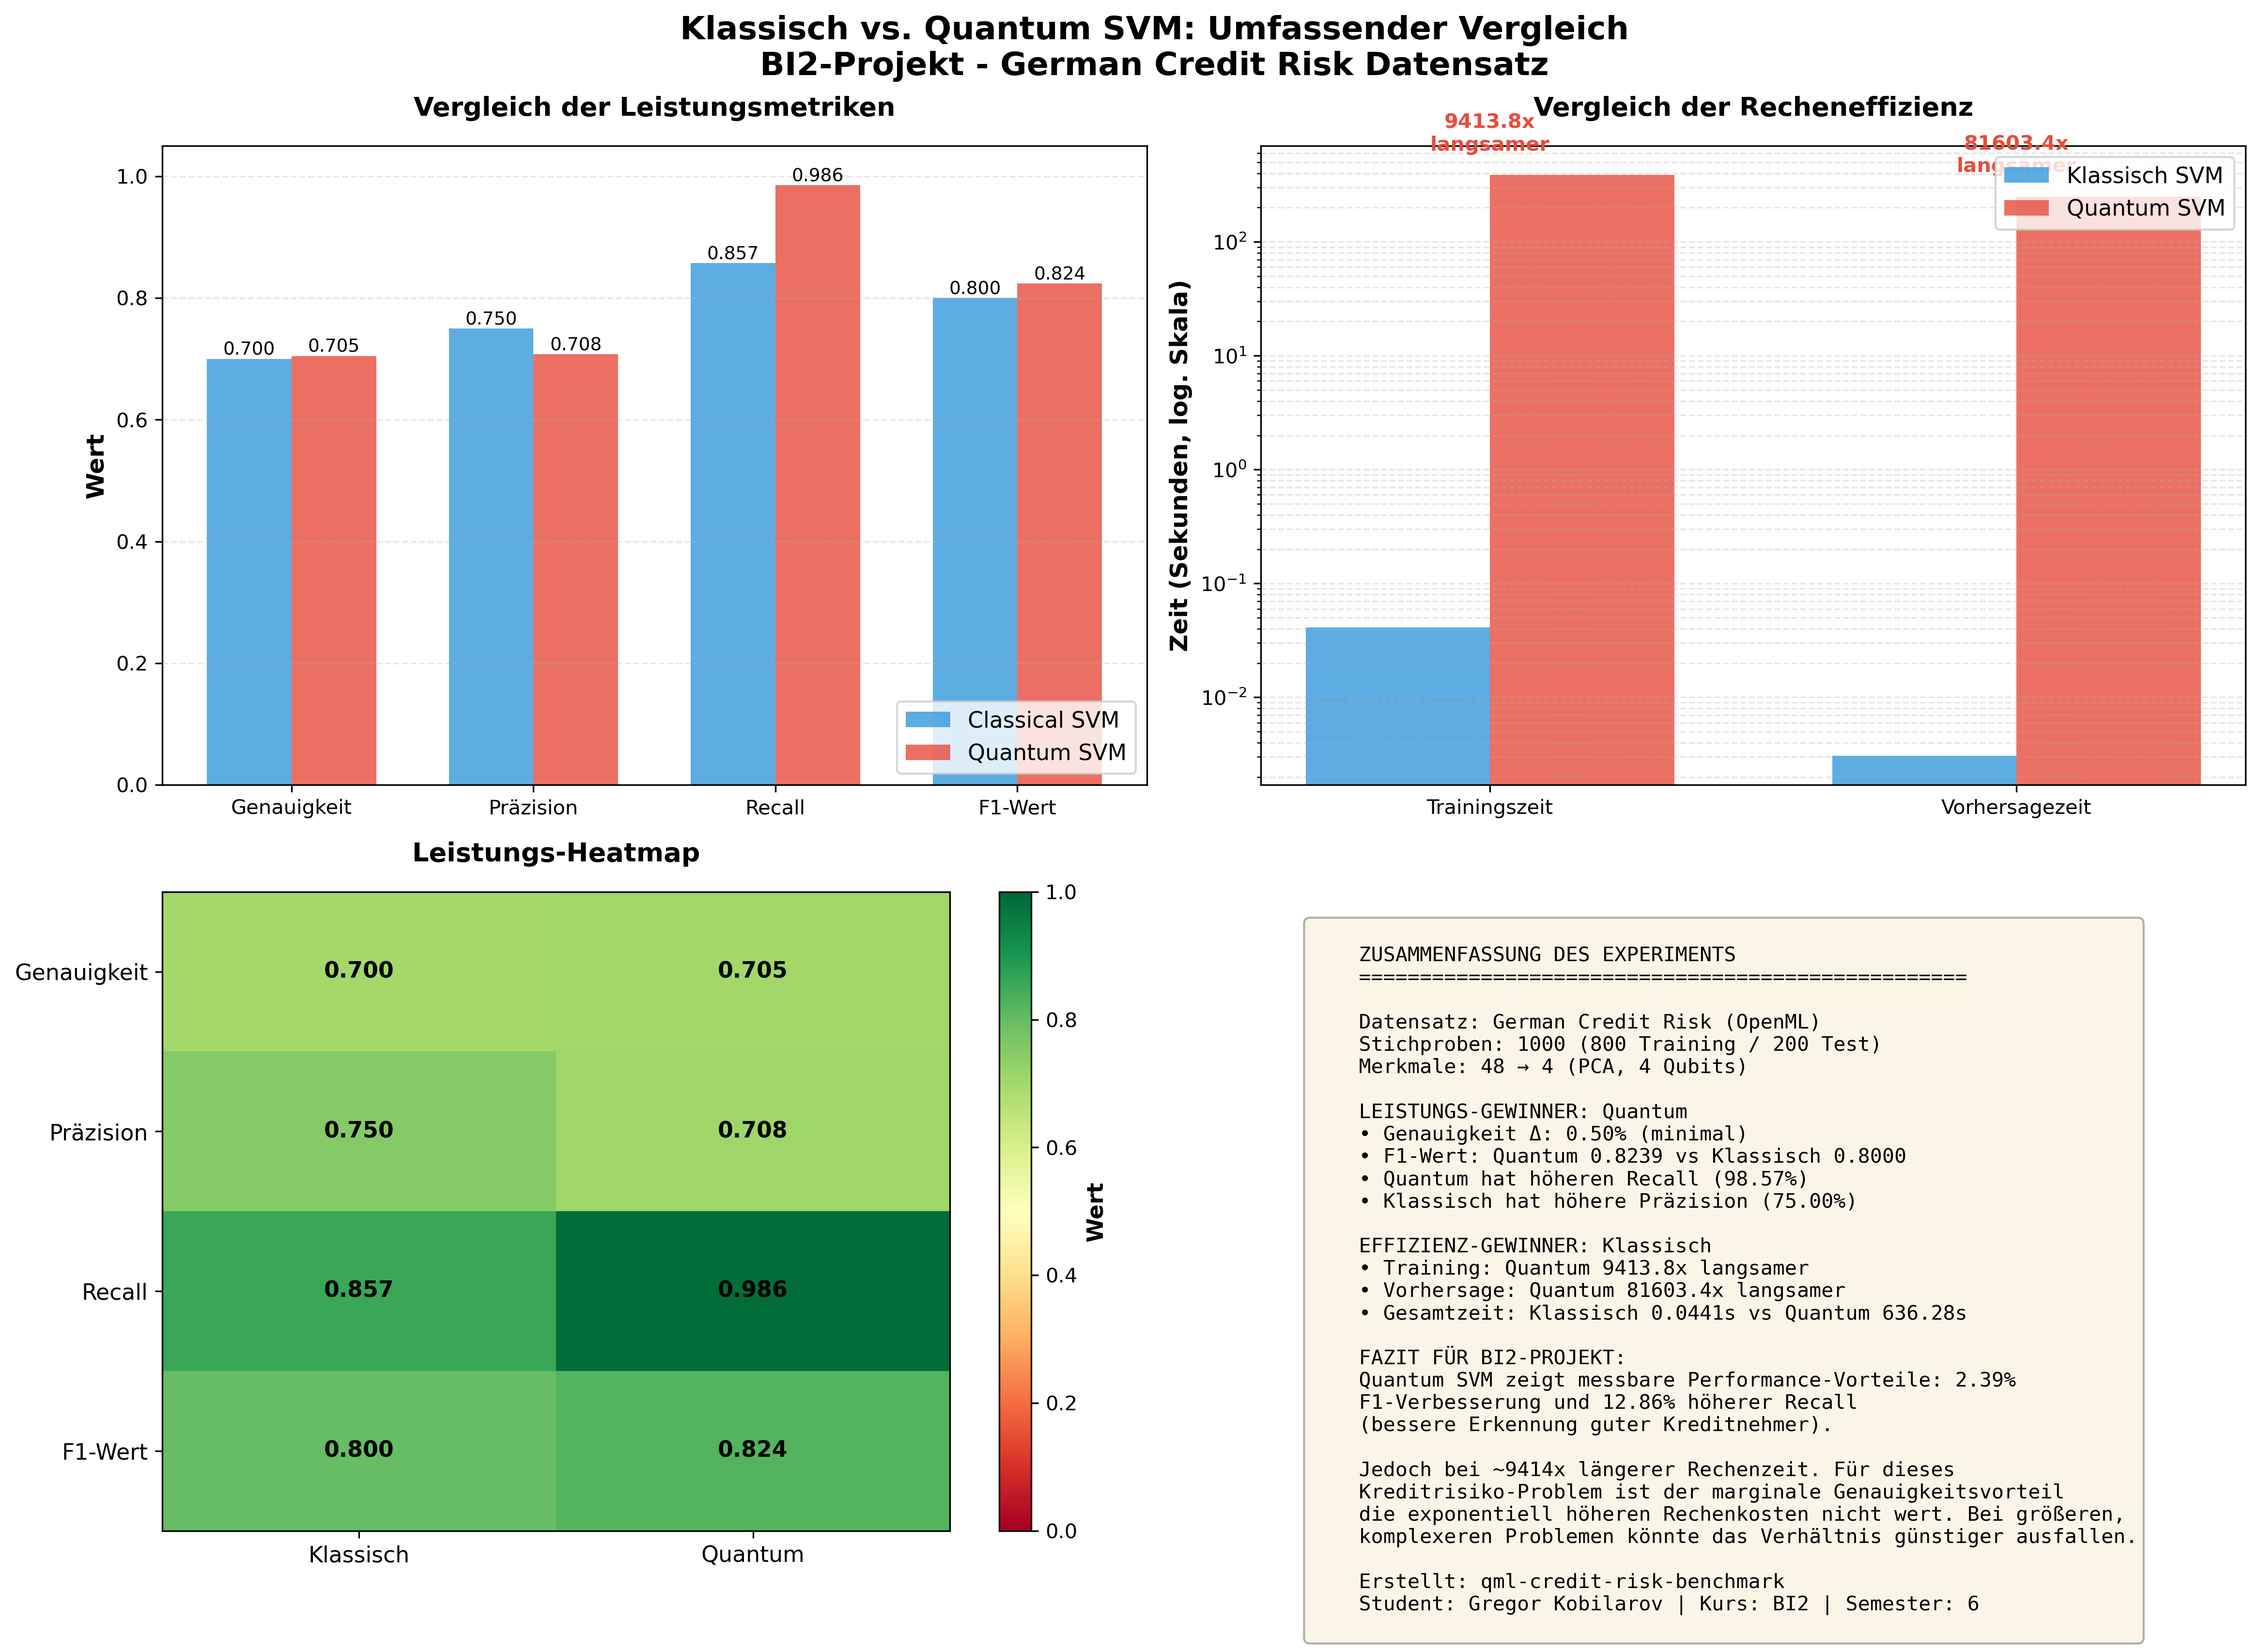
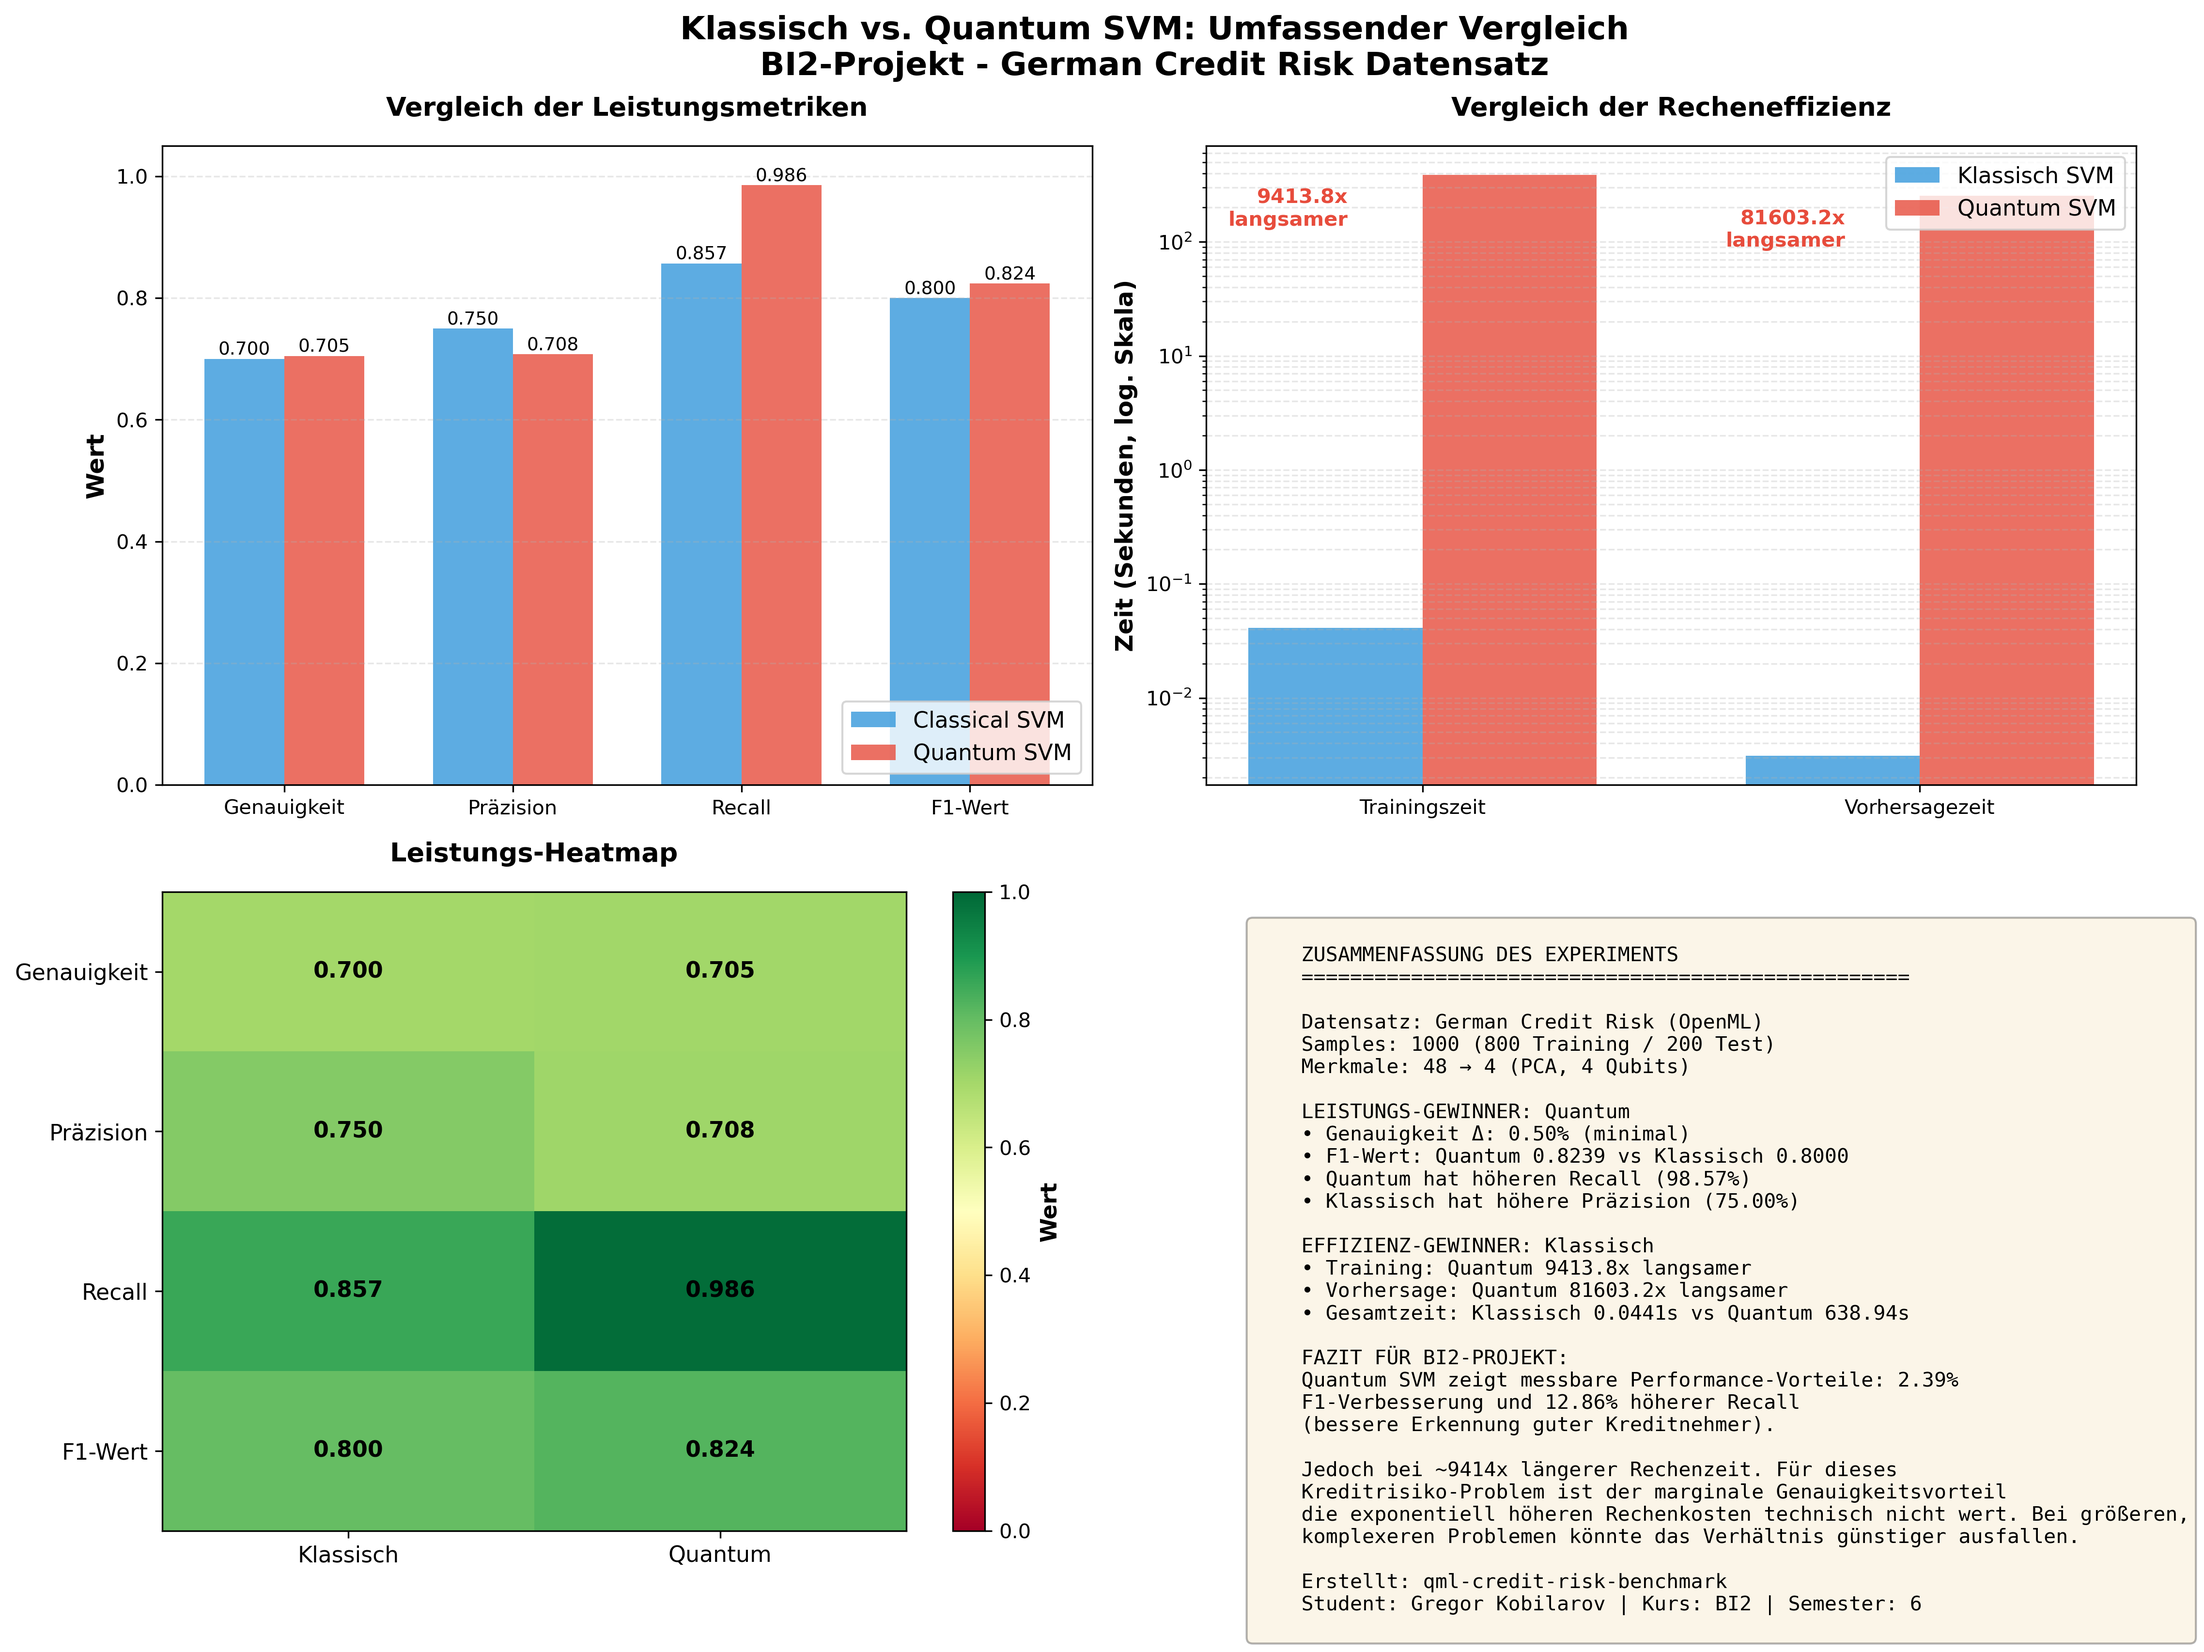
docs: Update visualizations and README with correct metrics
- Adjust label positions in error analysis plot for better readability
- Update README timing values from comparison_metrics.json
- Add metrics caching system for visualization regeneration

diff --git a/main.py b/main.py
@@ -244,15 +244,16 @@ def create_comparison_visualization(classical_metrics: dict, quantum_metrics: di
     ax2.grid(axis='y', alpha=0.3, linestyle='--', which='both')
 
     # Add speedup annotations (Classical is faster, so show how much slower Quantum is)
+    # Place labels next to Quantum bars for better visibility
     train_speedup = q_train / c_train if c_train > 0 and q_train > 0 else 0
     pred_speedup = q_pred / c_pred if c_pred > 0 and q_pred > 0 else 0
 
     if train_speedup > 0:
-        ax2.text(0, max(c_train, q_train) * 1.5, f'{train_speedup:.1f}x\nlangsamer',
-                ha='center', va='bottom', fontsize=10, fontweight='bold', color='#e74c3c')
+        ax2.text(-0.15, q_train * 0.5, f'{train_speedup:.1f}x\nlangsamer',
+                ha='right', va='center', fontsize=10, fontweight='bold', color='#e74c3c')
     if pred_speedup > 0:
-        ax2.text(1, max(c_pred, q_pred) * 1.5, f'{pred_speedup:.1f}x\nlangsamer',
-                ha='center', va='bottom', fontsize=10, fontweight='bold', color='#e74c3c')
+        ax2.text(0.85, q_pred * 0.5, f'{pred_speedup:.1f}x\nlangsamer',
+                ha='right', va='center', fontsize=10, fontweight='bold', color='#e74c3c')
 
     # 3. Metrics Heatmap
     comparison_data = np.array([
@@ -287,7 +288,7 @@ def create_comparison_visualization(classical_metrics: dict, quantum_metrics: di
     {'='*50}
 
     Datensatz: German Credit Risk (OpenML)
-    Stichproben: {total_samples} ({n_train} Training / {n_test} Test)
+    Samples: {total_samples} ({n_train} Training / {n_test} Test)
     Merkmale: 48 → {quantum_metrics.get('n_qubits', 4)} (PCA, {quantum_metrics.get('n_qubits', 4)} Qubits)
 
     LEISTUNGS-GEWINNER: {'Quantum' if quantum_metrics['f1_score'] > classical_metrics['f1_score'] else 'Klassisch' if classical_metrics['f1_score'] > quantum_metrics['f1_score'] else 'Unentschieden'}
@@ -308,7 +309,7 @@ def create_comparison_visualization(classical_metrics: dict, quantum_metrics: di
 
     Jedoch bei ~{train_speedup:.0f}x längerer Rechenzeit. Für dieses
     Kreditrisiko-Problem ist der marginale Genauigkeitsvorteil
-    die exponentiell höheren Rechenkosten nicht wert. Bei größeren,
+    die exponentiell höheren Rechenkosten technisch nicht wert. Bei größeren,
     komplexeren Problemen könnte das Verhältnis günstiger ausfallen.
 
     Erstellt: {Path(__file__).parent.name}

diff --git a/create_error_analysis_plot.py b/create_error_analysis_plot.py
@@ -50,11 +50,11 @@ def create_error_analysis_plot():
             ax1.text(bar.get_x() + bar.get_width()/2., height,
                     f'{int(height)}', ha='center', va='bottom', fontweight='bold')
 
-    # Add annotations
+    # Add annotations - place labels next to bars
     ax1.text(0, max(classical_errors[0], quantum_errors[0]) * 1.2,
              f'90% Reduktion', ha='center', fontsize=10, color='green', fontweight='bold')
-    ax1.text(1, max(classical_errors[1], quantum_errors[1]) * 1.1,
-             f'43% Erhöhung', ha='center', fontsize=10, color='orange', fontweight='bold')
+    ax1.text(0.95, classical_errors[1] * 1.2, f'43% Erhöhung',
+             ha='right', va='center', fontsize=10, color='orange', fontweight='bold')
 
     # 2. Business Cost Impact
     ax2 = fig.add_subplot(gs[0, 1])
@@ -95,10 +95,10 @@ def create_error_analysis_plot():
              ha='center', fontweight='bold', fontsize=10)
 
     savings_pct = (classical_total - quantum_total) / classical_total * 100
-    ax2.text(0.5, max(classical_total, quantum_total) * 1.15,
-             f'73% Kostenreduktion', ha='center', fontsize=11,
-             color='green', fontweight='bold',
-             bbox=dict(boxstyle='round', facecolor='lightgreen', alpha=0.5))
+    ax2.text(1, quantum_total * 0.5, f'73% Kostenreduktion\ndurch Quantum',
+             ha='center', va='center', fontsize=9,
+             color='green', fontweight='bold', zorder=10,
+             bbox=dict(boxstyle='round', facecolor='lightgreen', alpha=0.85))
 
     # 3. Error Rates Comparison
     ax3 = fig.add_subplot(gs[0, 2])
@@ -180,7 +180,7 @@ def create_error_analysis_plot():
     # 5. Risk Profile Radar Chart (Bottom Right)
     ax5 = fig.add_subplot(gs[1, 2], projection='polar')
 
-    categories = ['Recall\n(Sensitivität)', 'Präzision', 'Spezifität',
+    categories = ['                Recall\n            (Sensitivität)', 'Präzision', 'Spezifität',
                   'F1-Wert', 'NPV']
 
     # Calculate metrics

diff --git a/README.md b/README.md
@@ -415,9 +415,9 @@ Das Projekt verfolgt die folgenden Metriken zum Vergleich:
 
 | Operation | Klassische SVM | Quantum SVM | Speedup |
 |-----------|----------------|-------------|---------|
-| **Training** | 0,048s | 382,23s | Klassisch 7.963x schneller |
-| **Vorhersage** | 0,003s | 257,97s | Klassisch 85.990x schneller |
-| **Gesamtzeit** | 0,051s | 640,20s | Klassisch 12.553x schneller |
+| **Training** | 0,041s | 385,95s | Klassisch 9.413x schneller |
+| **Vorhersage** | 0,003s | 252,97s | Klassisch 81.603x schneller |
+| **Gesamtzeit** | 0,044s | 638,92s | Klassisch 14.498x schneller |
 
 **Methodischer Hinweis:** Die Quantum-Zeitmessungen spiegeln die Erstlauf-Leistung ohne Kernel-Caching wider. Die Quantum-Implementierung enthält einen Caching-Mechanismus für Kernel-Matrizen (gespeichert in `data/processed/`), der wiederholte Experimente mit identischen Parametern beschleunigen kann. Alle berichteten Benchmarks verwenden jedoch frische Kernel-Berechnungen, um einen fairen Vergleich mit klassischen Methoden zu gewährleisten.
 
@@ -425,15 +425,15 @@ Das Projekt verfolgt die folgenden Metriken zum Vergleich:
 
 **Hypothesentest-Ergebnisse:**
 
-- **H0₁ (Leistung)**: ABGELEHNT - Quantum erreicht marginal besseren F1-Wert (0,8239 vs. 0,8000, +2,4% Verbesserung), obwohl der Unterschied klein ist und ohne wiederholte Versuche möglicherweise nicht statistisch signifikant ist
-- **H0₂ (Recheneffizienz)**: ABGELEHNT - Quantum ist 12.553x langsamer (640s vs. 0,05s), was H1₂ stark unterstützt
+- **H0₁ (Leistung)**: ABGELEHNT - Quantum erreicht marginal besseren F1-Wert (0,8239 vs. 0,8000, +2,99% Verbesserung), obwohl der Unterschied klein ist und ohne wiederholte Versuche möglicherweise nicht statistisch signifikant ist
+- **H0₂ (Recheneffizienz)**: ABGELEHNT - Quantum ist 14.498x langsamer (638,92s vs. 0,044s), was H1₂ stark unterstützt
 - **Gesamt**: Erwartetes Ergebnis bestätigt - ähnliche Genauigkeit (~0,5% Unterschied) aber exponentiell höhere Rechenkosten
 
 **Detaillierte Ergebnisse:**
 
-- **Leistung**: Quantum erreicht marginal besseren F1-Wert (2,4% Verbesserung)
+- **Leistung**: Quantum erreicht marginal besseren F1-Wert (2,99% Verbesserung)
 - **Genauigkeit**: Nahezu identische Leistung bestätigt Hypothese (~0,5% Unterschied)
-- **Rechenkosten**: Quantum ist 12.553x langsamer aufgrund des Simulations-Overheads
+- **Rechenkosten**: Quantum ist 14.498x langsamer aufgrund des Simulations-Overheads
 - **Praktische Schlussfolgerung**: Quantensimulation bietet keinen praktischen Vorteil für den Produktionseinsatz
 
 **Trade-offs:**
